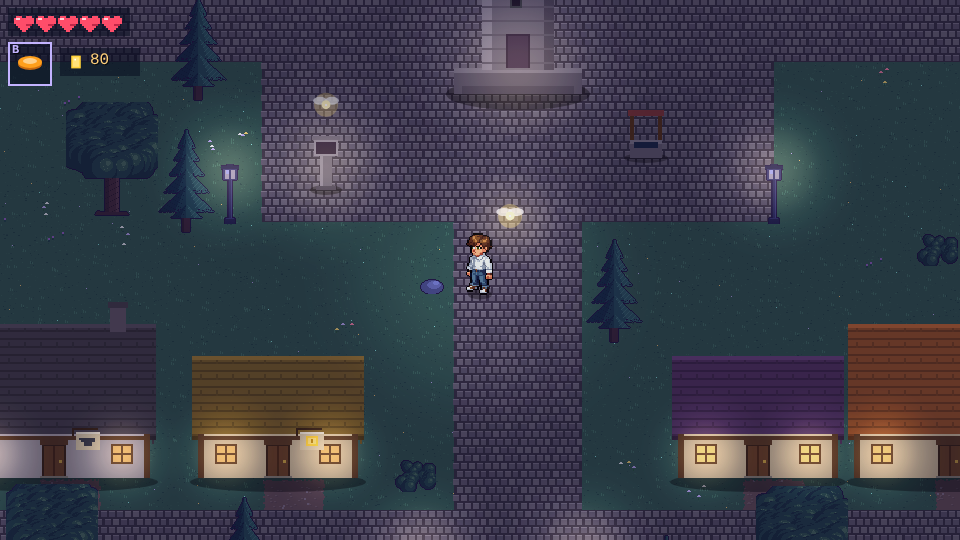
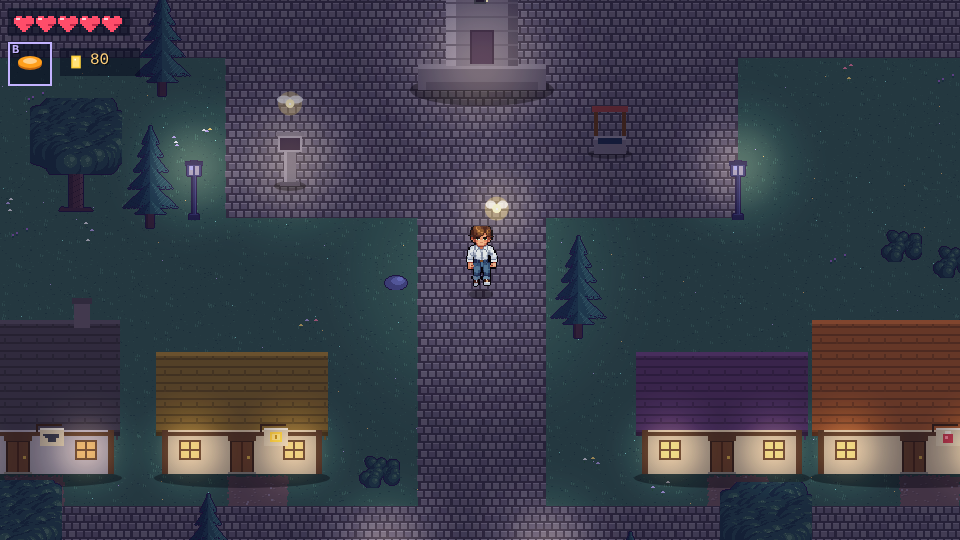
v7.0.3 : marche de profil de Sacha (droite, gauche en miroir), script de construction de la planche
Claude-Session: https://claude.ai/code/session_01SUBLMYy1BFvxzw1h17Vwcu

diff --git a/index.html b/index.html
@@ -26,35 +26,35 @@
 <body>
 <canvas id="c"></canvas>
 <div id="rotate"><span>⟳</span>Tourne ton téléphone<br>en mode paysage</div>
-<script src="src/core.js?v=7.0.2"></script>
-<script src="src/bus.js?v=7.0.2"></script>
-<script src="src/input.js?v=7.0.2"></script>
-<script src="src/systems/save.js?v=7.0.2"></script>
-<script src="src/systems/heroes.js?v=7.0.2"></script>
-<script src="src/systems/inventory.js?v=7.0.2"></script>
-<script src="src/systems/wallet.js?v=7.0.2"></script>
-<script src="src/systems/shop.js?v=7.0.2"></script>
-<script src="src/systems/story.js?v=7.0.2"></script>
-<script src="src/systems/loot.js?v=7.0.2"></script>
-<script src="src/world.js?v=7.0.2"></script>
-<script src="src/entities.js?v=7.0.2"></script>
-<script src="src/objects.js?v=7.0.2"></script>
-<script src="src/actors.js?v=7.0.2"></script>
-<script src="src/interiors.js?v=7.0.2"></script>
-<script src="src/bois.js?v=7.0.2"></script>
-<script src="src/tools.js?v=7.0.2"></script>
-<script src="src/mines.js?v=7.0.2"></script>
-<script src="src/lac.js?v=7.0.2"></script>
-<script src="src/temple.js?v=7.0.2"></script>
-<script src="src/tower.js?v=7.0.2"></script>
-<script src="src/castle.js?v=7.0.2"></script>
-<script src="src/quests.js?v=7.0.2"></script>
-<script src="src/dungeon.js?v=7.0.2"></script>
-<script src="src/cave.js?v=7.0.2"></script>
-<script src="src/overworld.js?v=7.0.2"></script>
-<script src="src/houses.js?v=7.0.2"></script>
-<script src="src/areas.js?v=7.0.2"></script>
-<script src="src/ui.js?v=7.0.2"></script>
-<script src="src/game.js?v=7.0.2"></script>
+<script src="src/core.js?v=7.0.3"></script>
+<script src="src/bus.js?v=7.0.3"></script>
+<script src="src/input.js?v=7.0.3"></script>
+<script src="src/systems/save.js?v=7.0.3"></script>
+<script src="src/systems/heroes.js?v=7.0.3"></script>
+<script src="src/systems/inventory.js?v=7.0.3"></script>
+<script src="src/systems/wallet.js?v=7.0.3"></script>
+<script src="src/systems/shop.js?v=7.0.3"></script>
+<script src="src/systems/story.js?v=7.0.3"></script>
+<script src="src/systems/loot.js?v=7.0.3"></script>
+<script src="src/world.js?v=7.0.3"></script>
+<script src="src/entities.js?v=7.0.3"></script>
+<script src="src/objects.js?v=7.0.3"></script>
+<script src="src/actors.js?v=7.0.3"></script>
+<script src="src/interiors.js?v=7.0.3"></script>
+<script src="src/bois.js?v=7.0.3"></script>
+<script src="src/tools.js?v=7.0.3"></script>
+<script src="src/mines.js?v=7.0.3"></script>
+<script src="src/lac.js?v=7.0.3"></script>
+<script src="src/temple.js?v=7.0.3"></script>
+<script src="src/tower.js?v=7.0.3"></script>
+<script src="src/castle.js?v=7.0.3"></script>
+<script src="src/quests.js?v=7.0.3"></script>
+<script src="src/dungeon.js?v=7.0.3"></script>
+<script src="src/cave.js?v=7.0.3"></script>
+<script src="src/overworld.js?v=7.0.3"></script>
+<script src="src/houses.js?v=7.0.3"></script>
+<script src="src/areas.js?v=7.0.3"></script>
+<script src="src/ui.js?v=7.0.3"></script>
+<script src="src/game.js?v=7.0.3"></script>
 </body>
 </html>

diff --git a/sw.js b/sw.js
@@ -1,11 +1,11 @@
 // À chaque déploiement : changer VERSION ici, VERSION dans src/core.js et les ?v= dans index.html.
-const VERSION = 'v7.0.2';
+const VERSION = 'v7.0.3';
 const CACHE = 'escape-night2-' + VERSION;
 const PROPS = ['pine1', 'pine2', 'oak1', 'oak2', 'tent_r', 'tent_b', 'tent_y', 'campfire', 'campfire2', 'bush', 'log', 'rock', 'lamp', 'sign', 'fence', 'flowers', 'table'];
 const SCRIPTS = ['src/core.js', 'src/bus.js', 'src/input.js', 'src/systems/save.js', 'src/systems/heroes.js', 'src/systems/inventory.js', 'src/systems/wallet.js', 'src/systems/shop.js', 'src/systems/story.js', 'src/systems/loot.js', 'src/world.js', 'src/entities.js', 'src/objects.js', 'src/actors.js', 'src/interiors.js', 'src/bois.js', 'src/tools.js', 'src/mines.js', 'src/lac.js', 'src/temple.js', 'src/tower.js', 'src/castle.js', 'src/quests.js', 'src/dungeon.js', 'src/cave.js', 'src/overworld.js', 'src/houses.js', 'src/areas.js', 'src/ui.js', 'src/game.js'];
 const FACES = ['sacha', 'cam', 'rox', 'papa'].flatMap(w => ['smile', 'o', 'angry', 'wink'].map(m => `${w}_${m}`)).concat(['amandine_smile', 'claudine_smile']);
 const FILES = ['./', 'index.html', 'manifest.json', 'icon-192.png', 'icon-512.png',
-  ...SCRIPTS.map(s => s + '?v=7.0.2'),
+  ...SCRIPTS.map(s => s + '?v=7.0.3'),
   ...['heroes', 'items', 'shops', 'dialogues'].map(k => `data/${k}.json?v=${VERSION}`),
   ...['sacha', 'cam', 'rox'].flatMap(h => [`assets/${h}.png?v=${VERSION}`, `assets/${h}.json?v=${VERSION}`]),
   ...FACES.map(f => `assets/faces/${f}.png?v=${VERSION}`),

diff --git a/src/core.js b/src/core.js
@@ -1,6 +1,6 @@
 'use strict';
 // ---------- constantes ----------
-const VERSION = 'v7.0.2';
+const VERSION = 'v7.0.3';
 const W = 480, H = 270, SC = 2, TS = 16;
 const cv = document.getElementById('c');
 const ctx = cv.getContext('2d');

diff --git a/assets/src/build_sacha.py b/assets/src/build_sacha.py
@@ -1,0 +1,29 @@
+# Construit assets/sacha.png + sacha.json à partir des GIF de assets/src (python3 assets/src/build_sacha.py)
+from PIL import Image, ImageOps
+import json, os
+os.chdir(os.path.join(os.path.dirname(__file__), '..', '..'))
+def frames(p):
+  im=Image.open(p); out=[]
+  for i in range(im.n_frames): im.seek(i); out.append(im.convert('RGBA'))
+  return out
+def cycle(fs, bottom):  # recadre en 48×48, pieds en bas, centre commun à tout le cycle (pas de tremblement)
+  cx=round(sum((f.getbbox()[0]+f.getbbox()[2])/2 for f in fs)/len(fs))
+  return [f.crop((cx-24, bottom-46, cx+24, bottom+2)) for f in fs]
+T=[f.crop((0,0,48,46)) for f in frames('assets/src/sacha_turnaround.gif')]
+walks={'down':cycle(frames('assets/src/sacha_walk_down.gif'),56)}
+walks['right']=cycle(frames('assets/src/sacha_walk_right.gif'),53)
+walks['left']=[ImageOps.mirror(f) for f in walks['right']]
+W,Hh=48,48; rows=[]
+for d,i in [('down',0),('up',4),('left',6),('right',2),('down_right',1),('up_right',3),('up_left',5),('down_left',7)]:
+  pose=Image.new('RGBA',(W,Hh)); pose.paste(T[i],(0,2)); bob=Image.new('RGBA',(W,Hh)); bob.paste(T[i],(0,1))
+  rows.append((d,pose,walks.get(d,[pose,bob])))
+cols=max(1+len(w) for _,_,w in rows)
+sheet=Image.new('RGBA',(W*cols,Hh*len(rows))); fr={}; tags=[]; n=0
+for r,(d,pose,walk) in enumerate(rows):
+  sheet.paste(pose,(0,r*Hh)); fr[f'idle_{d}0']={'frame':{'x':0,'y':r*Hh,'w':W,'h':Hh},'duration':400}
+  tags.append({'name':f'idle_{d}','from':n,'to':n,'direction':'forward'}); n+=1
+  for j,f in enumerate(walk):
+    sheet.paste(f,((j+1)*W,r*Hh)); fr[f'walk_{d}{j}']={'frame':{'x':(j+1)*W,'y':r*Hh,'w':W,'h':Hh},'duration':120 if len(walk)>2 else 140}
+  tags.append({'name':f'walk_{d}','from':n,'to':n+len(walk)-1,'direction':'forward'}); n+=len(walk)
+sheet.save('assets/sacha.png')
+json.dump({'frames':fr,'meta':{'image':'sacha.png','size':{'w':sheet.width,'h':sheet.height},'scale':'1.4','frameTags':tags}},open('assets/sacha.json','w'),indent=1)
